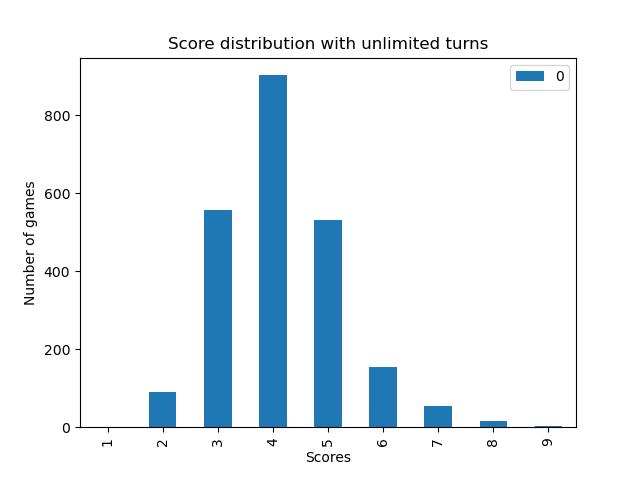
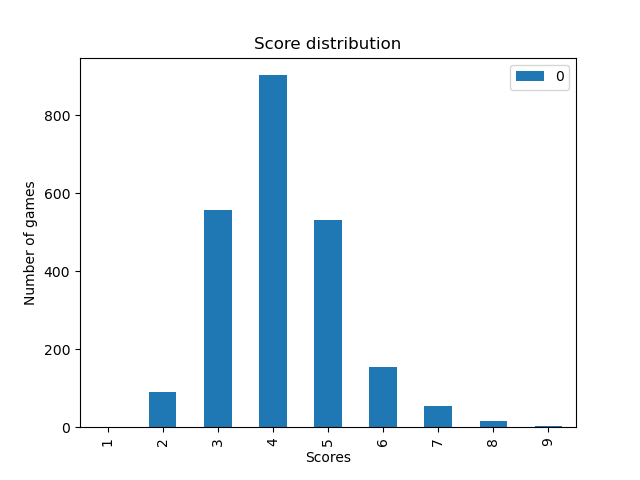
Update extended graph

Changed region(s): [[0.25, 0.0625, 0.75, 0.125]]

diff --git a/analysis.py b/analysis.py
@@ -5,7 +5,13 @@ from collections import Counter
 
 import pandas as pd
 
-with open(os.path.join('datasets', 'filtered', 'simulation_results_scaled_tf.json'), "r") as file:
+DATASET_DIR = 'datasets'
+EXPERIMENT_DIR = 'filtered'
+
+RESULTS = os.path.join(DATASET_DIR, EXPERIMENT_DIR, 'simulation_results_scaled_tf.json')
+RESULTS_EXTENDED = os.path.join(DATASET_DIR, EXPERIMENT_DIR, 'simulation_results_scaled_tf_extended.json')
+
+with open(RESULTS_EXTENDED, "r") as file:
     simulation_results = json.load(file)
 
 results = simulation_results["games"]
@@ -19,5 +25,5 @@ df = pd.DataFrame.from_dict(count, orient='index').sort_index(axis = 0)
 print(df)
 df.plot(xlabel='Scores', ylabel='Number of games', title='Score distribution', kind='bar')
 # plt.show()
-plt.savefig(os.path.join('graphs', 'analysis.png'))
+plt.savefig(os.path.join('graphs', 'analysis_unlimited.png'))
 # print(df)
